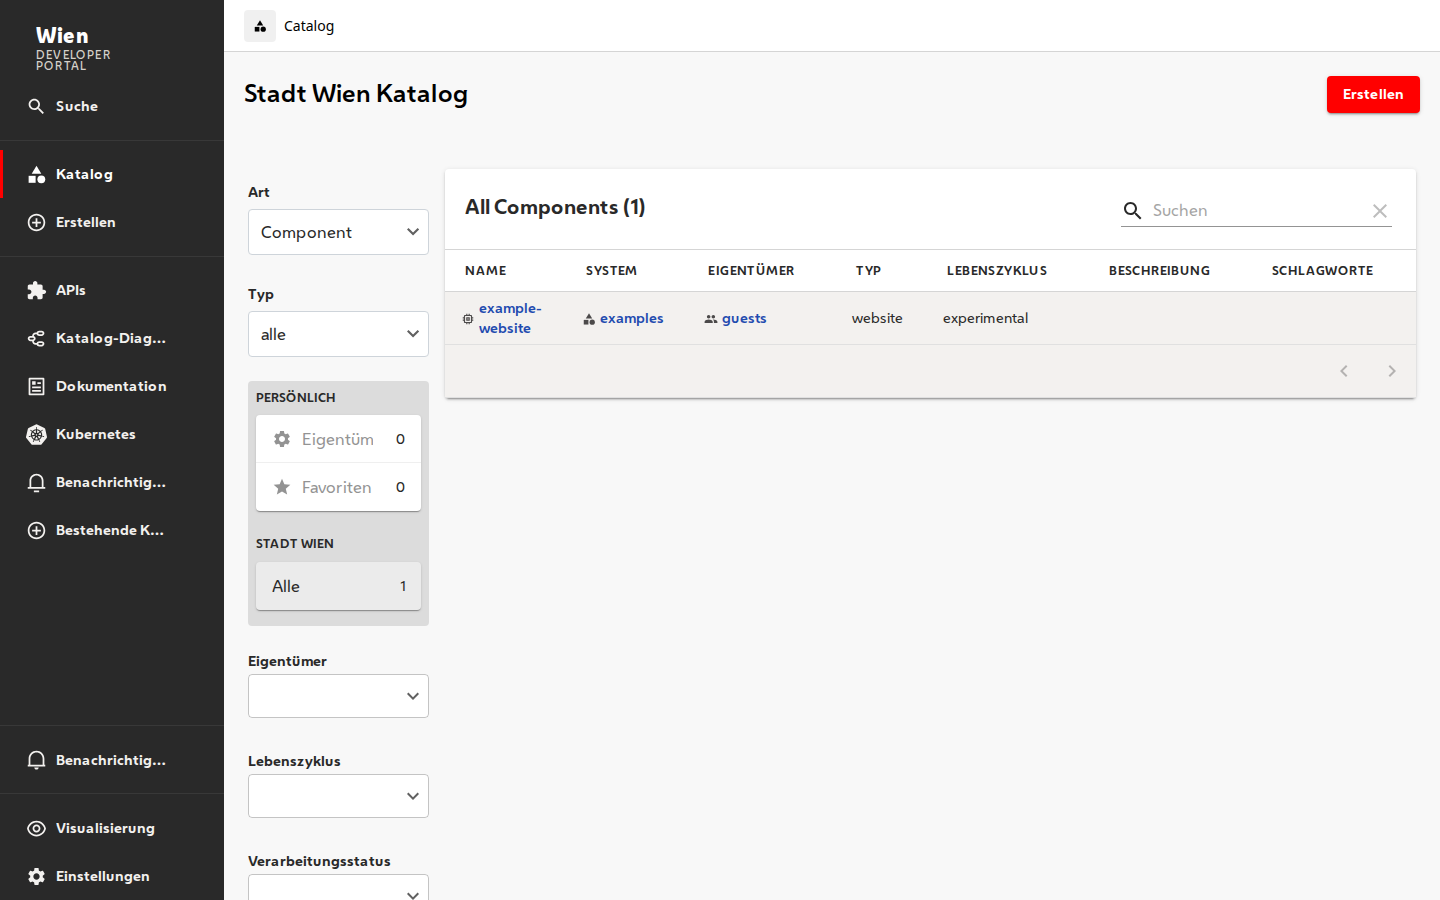
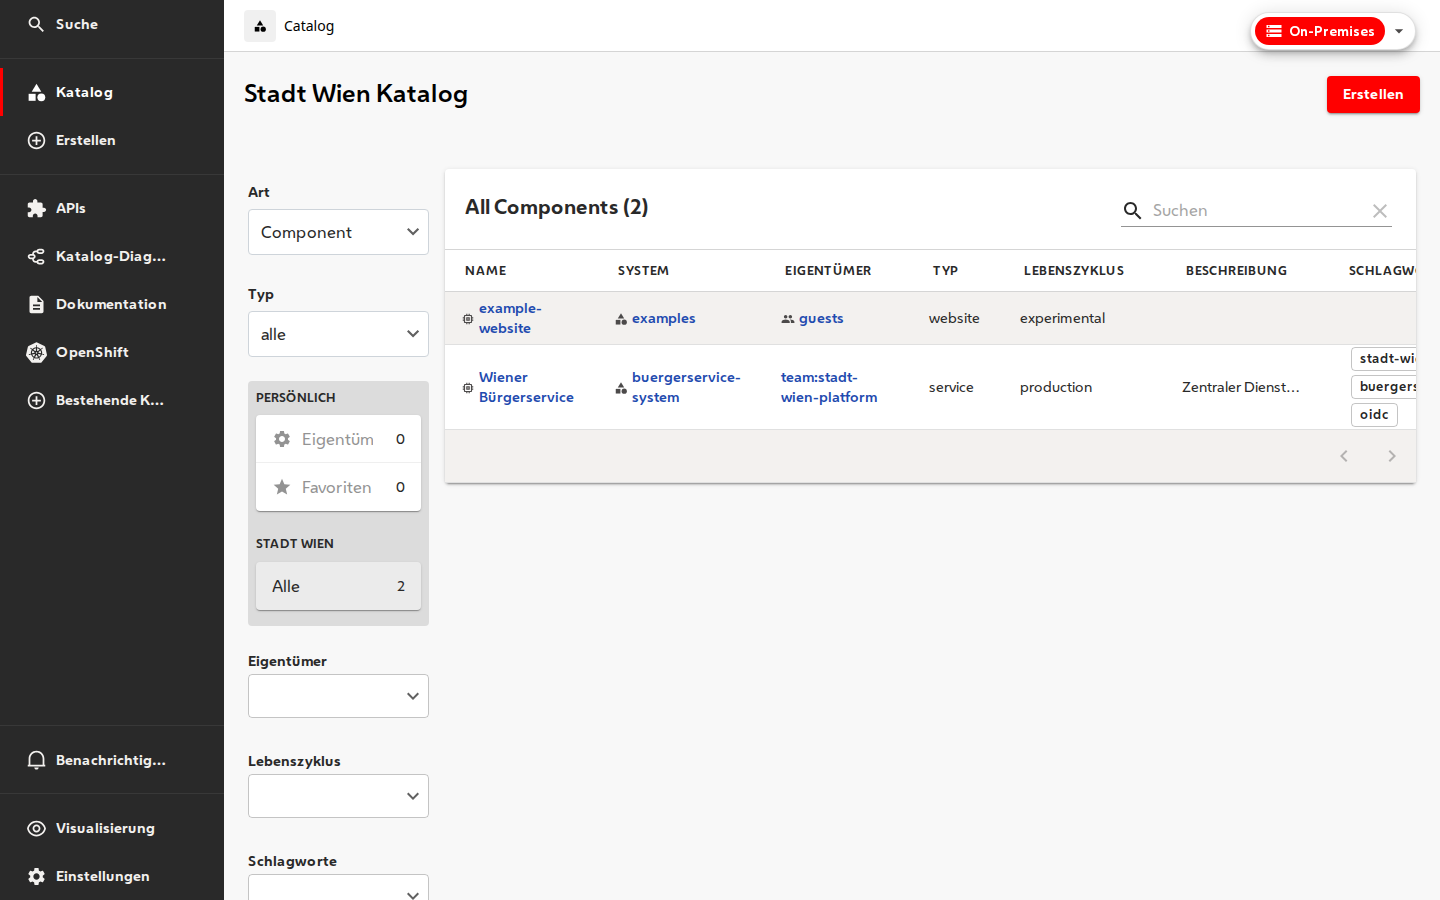
Verify app runs and add plugin screenshots to READMEs
- Add capture-plugin-screenshots.mjs and yarn screenshots script
- Capture CD theme, i18n sidebar/TechDocs/settings, instance switcher
- Embed screenshots in root, app, and plugin README files
- Confirm yarn start serves catalog at / with all @wien plugins active

diff --git a/README.md b/README.md
@@ -9,7 +9,7 @@ Publishable `@wien` frontend plugins for [Backstage](https://backstage.io), plus
 | `@wien/backstage-i18n-de-plugin` | German translations, grouped sidebar, TechDocs i18n |
 | `@wien/backstage-instanceswitcher-plugin` | Floating on-prem ↔ cloud instance switcher |
 
-![Stadt Wien Developer Portal — Deutsch](docs/assets/wien_cd_de.png)
+![Stadt Wien Developer Portal — catalog (German)](docs/assets/wien_cd_de.png)
 
 ## Quick start (Cursor VM or local)
 
@@ -20,6 +20,36 @@ yarn start
 ```
 
 Open http://localhost:3000. For a two-instance demo, run a second app on port 3001 with `app-config.cloud.yaml`.
+
+Verified running in this workspace via `yarn start` on ports 3000 (frontend) and 7007 (backend).
+
+## Plugin screenshots
+
+### `@wien/backstage-cd-plugin` — Corporate Design themes
+
+Wien Rot header, dark sidebar, Wiener Melange typography, and Wien light/dark theme toggles in Settings → Darstellung.
+
+![Wien CD theme on catalog page](docs/assets/plugin-cd-theme.png)
+
+### `@wien/backstage-i18n-de-plugin` — German UI
+
+Grouped sidebar with DE labels, translated TechDocs, and language/theme settings.
+
+| Sidebar (DE) | TechDocs | Settings |
+|---|---|---|
+| ![German sidebar](docs/assets/plugin-i18n-sidebar-de.png) | ![TechDocs DE](docs/assets/plugin-i18n-techdocs-de.png) | ![Settings DE](docs/assets/plugin-i18n-settings-de.png) |
+
+### `@wien/backstage-instanceswitcher-plugin` — Instance switcher
+
+Floating pill at top-right; on-prem (Wien Rot) vs cloud (Wasserblau) variants from `@wien/backstage-shared`.
+
+![Instance switcher pill](docs/assets/plugin-instance-switcher.png)
+
+![Instance switcher menu](docs/assets/plugin-instance-switcher-menu.png)
+
+### `@wien/backstage-shared` — Design tokens
+
+No UI of its own. Provides `wienColors`, `WienInstanceVariant`, and `getVariantDisplayColor()` used by the CD and instance-switcher plugins above.
 
 ## Plugin dependency graph
 
@@ -76,6 +106,15 @@ export default createApp({
 ```
 
 See each plugin README under `my-backstage-app/plugins/*/README.md` for extension IDs and config.
+
+## Regenerate screenshots
+
+With `yarn start` running:
+
+```sh
+cd my-backstage-app
+yarn screenshots
+```
 
 ## Optional: Docker
 

diff --git a/my-backstage-app/plugins/backstage-instanceswitcher-plugin/README.md b/my-backstage-app/plugins/backstage-instanceswitcher-plugin/README.md
@@ -45,6 +45,12 @@ app:
 
 Pair `instances[].variant` with `instanceVariant` on `@wien/backstage-cd-plugin` theme extensions per deployment.
 
+## Screenshots
+
+![Instance switcher pill](../../../docs/assets/plugin-instance-switcher.png)
+
+![Instance switcher menu — on-prem vs cloud variants](../../../docs/assets/plugin-instance-switcher-menu.png)
+
 ## Extensions
 
 | Extension ID | Purpose |
@@ -60,6 +66,12 @@ flowchart LR
   SwitcherPlugin --> Element[InstanceSwitcherElement]
   Element --> Shared["@wien/backstage-shared tokens"]
 ```
+
+## Screenshot
+
+Uses `getVariantDisplayColor()` from `@wien/backstage-shared` — on-prem pill is Wien Rot, cloud entry uses Wasserblau:
+
+![Instance switcher menu](../../../docs/assets/plugin-instance-switcher-menu.png)
 
 ## Troubleshooting
 

diff --git a/my-backstage-app/README.md b/my-backstage-app/README.md
@@ -12,6 +12,8 @@ yarn start
 - Frontend: http://localhost:3000
 - Backend: http://localhost:7007
 
+![Catalog with Wien CD and German sidebar](../docs/assets/plugin-cd-theme.png)
+
 Two-instance demo (on-prem + cloud):
 
 ```sh
@@ -42,6 +44,7 @@ yarn workspace @wien/backstage-cd-plugin test
 yarn workspace @wien/backstage-i18n-de-plugin test
 yarn workspace @wien/backstage-i18n-de-plugin i18n:coverage:check
 yarn workspace @wien/backstage-instanceswitcher-plugin test
+yarn screenshots                         # requires yarn start running
 ```
 
 ## Optional Docker backend

diff --git a/my-backstage-app/plugins/backstage-i18n-de-plugin/README.md b/my-backstage-app/plugins/backstage-i18n-de-plugin/README.md
@@ -100,6 +100,12 @@ yarn workspace @wien/backstage-i18n-de-plugin i18n:coverage:check
 
 The coverage script enforces 100% German coverage for all upstream translation refs.
 
+## Screenshots
+
+| German sidebar | TechDocs | Settings |
+|---|---|---|
+| ![German sidebar](../../../docs/assets/plugin-i18n-sidebar-de.png) | ![TechDocs DE](../../../docs/assets/plugin-i18n-techdocs-de.png) | ![Settings DE](../../../docs/assets/plugin-i18n-settings-de.png) |
+
 ## Related packages
 
 - `@wien/backstage-cd-plugin` — themes and font (install separately)

diff --git a/my-backstage-app/plugins/backstage-cd-plugin/README.md b/my-backstage-app/plugins/backstage-cd-plugin/README.md
@@ -47,6 +47,14 @@ app:
 
 Disable the font with `- app-root-element:cd/wiener-melange-font: false`.
 
+## Screenshot
+
+![Wien CD theme — Wien Rot header and dark sidebar](../../../docs/assets/plugin-cd-theme.png)
+
+Settings → Darstellung shows **Wien (hell)** / **Wien (dunkel)** theme toggles:
+
+![Wien theme toggles in Settings](../../../docs/assets/plugin-i18n-settings-de.png)
+
 ## Stable API
 
 ```ts
